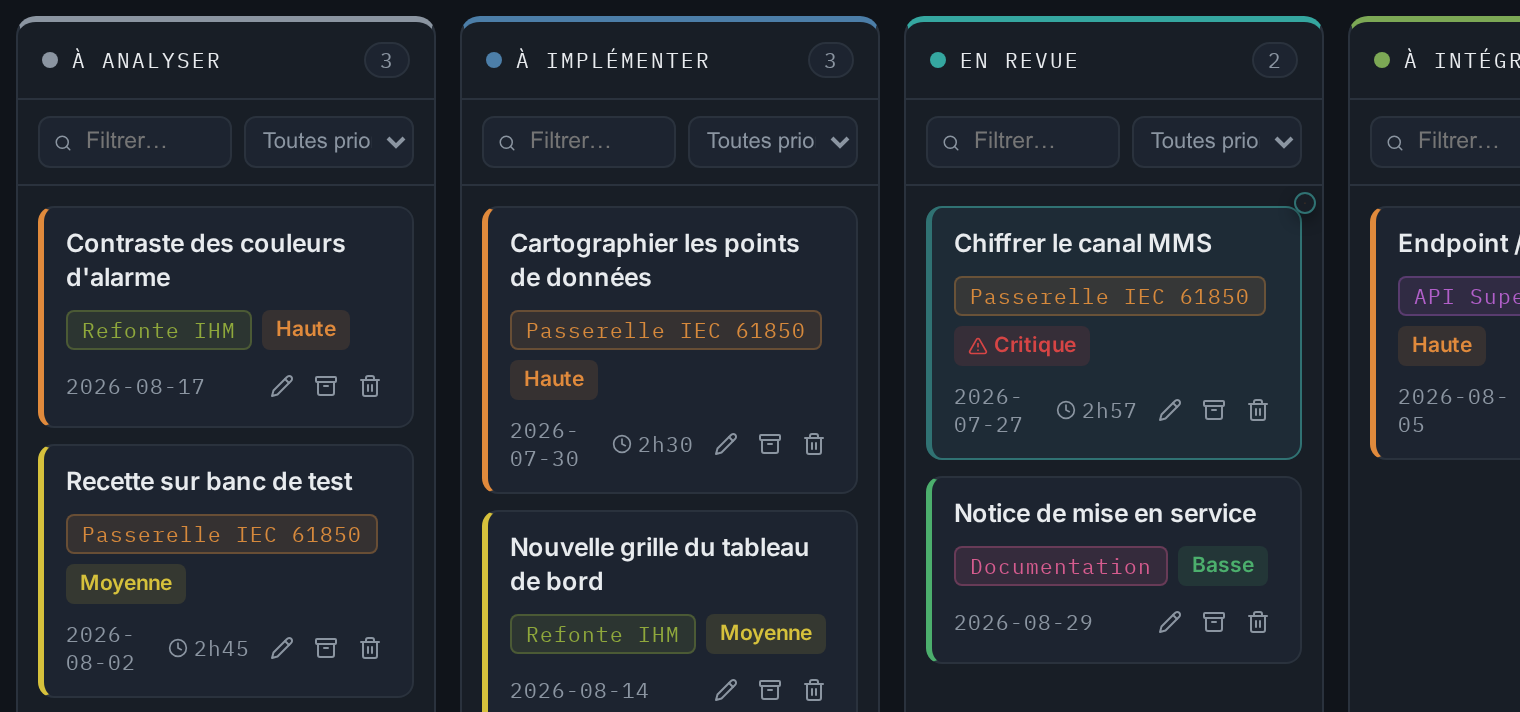
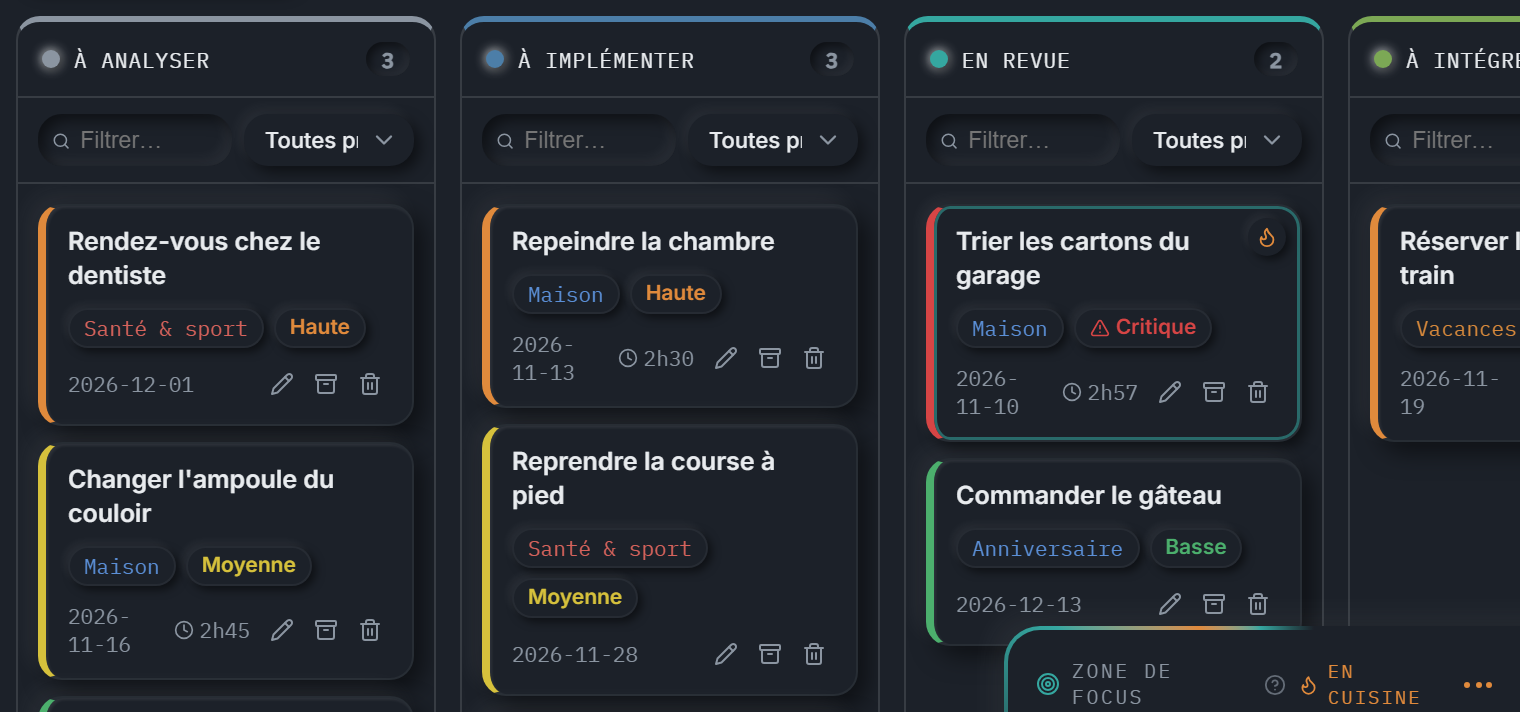
docs: update screenshots, tutorial guide, README, and release notes for v2.0.0

diff --git a/src/i18n/fr.ts b/src/i18n/fr.ts
@@ -463,6 +463,10 @@ export default {
     tuto_views_body: "Deux façons de voir tes post-its : la Liste, comme une liste de courses à cocher, ou le Kanban, un tableau en liège à colonnes. Sur le Kanban, fais glisser une tâche vers la colonne suivante quand elle avance.",
     tuto_focus_title: "La zone de focus",
     tuto_focus_body: "En bas à droite, la zone de focus est comme une plaque de cuisson : pose UNE tâche dessus et elle « cuit » — le temps passé est compté automatiquement jusqu'à ce que tu la retires ou la termines.",
+    tuto_island_title: "L'îlot dynamique & compagnon",
+    tuto_island_body: "En haut au centre, l'îlot dynamique affiche ton focus et un minuteur Pomodoro. Ouvre-le d'un clic pour gérer tes cycles de travail et interagir avec ton compagnon virtuel cybernétique (nourris-le, joue, et suis son évolution).",
+    tuto_plugins_title: "Extensions & plugins",
+    tuto_plugins_body: "Personnalise ton espace de travail grâce au système d'extensions (v2). Chaque plugin s'exécute dans une sandbox isolée (CSP stricte) et peut apporter de nouvelles vues (mindmap, suivi de charge) ou enrichir tes fiches de tâches.",
     tuto_time_title: "Le temps passé",
     tuto_time_body: "Chaque tâche a un petit chronomètre (l'icône horloge). Note le temps passé comme sur une feuille d'heures : « 1h30 », « 45m »… Pratique pour savoir où partent tes journées.",
     tuto_charts_title: "Les graphiques",
@@ -477,6 +481,8 @@ export default {
     tuto_tasks_alt: "Barre d'outils de recherche et de tri, suivie de deux lignes de tâches avec projet, priorité, statut et échéance.",
     tuto_views_alt: "Vue kanban : une colonne par statut, les tâches en cartes déplaçables d'une colonne à l'autre.",
     tuto_focus_alt: "Zone de focus en bas à droite avec une tâche en cours et le temps écoulé.",
+    tuto_island_alt: "Îlot dynamique ouvert avec minuteur Pomodoro et compagnon cybernétique pixel-art.",
+    tuto_plugins_alt: "Section des plugins avec la liste des extensions installées et leurs options.",
     tuto_time_alt: "Popover de pointage du temps ouvert sur une tâche, avec le total et la liste des entrées.",
     tuto_charts_alt: "Graphiques de synthèse : répartition par statut, avancement par projet, répartition par priorité.",
     tuto_themes_alt: "Mode post-it activé : les tâches sont des notes de papier, avec les boutons d'apparence (thème, punaise, célébrations) en haut à droite.",

diff --git a/src/i18n/en.ts b/src/i18n/en.ts
@@ -460,6 +460,10 @@ export default {
     tuto_views_body: "Two ways to see your sticky notes: the List, like a shopping list to tick off, or the Kanban, a cork board with columns. On the Kanban, drag a task to the next column as it moves forward.",
     tuto_focus_title: "The focus zone",
     tuto_focus_body: "At the bottom right, the focus zone is like a cooking stove: drop ONE task on it and it \"cooks\" — the time spent is tracked automatically until you remove it or finish it.",
+    tuto_island_title: "Dynamic Island & Companion",
+    tuto_island_body: "At the top center, the Dynamic Island shows your active focus and Pomodoro timer. Click to expand: run productivity sprints, switch between clock styles, and take care of your evolutive pixel-art cybernetic pet.",
+    tuto_plugins_title: "Plugins & Extensions",
+    tuto_plugins_body: "Extend your workspace with the v2 sandboxed plugin system. Plugins run safely with strict CSP, adding new views (mindmaps, workload tracking) and custom task panels or columns.",
     tuto_time_title: "Time spent",
     tuto_time_body: "Every task has a small stopwatch (the clock icon). Log the time you spend like on a timesheet: \"1h30\", \"45m\"… Handy to know where your days go.",
     tuto_charts_title: "Charts",
@@ -474,6 +478,8 @@ export default {
     tuto_tasks_alt: "Search and sort toolbar, followed by two task rows with project, priority, status and due date.",
     tuto_views_alt: "Kanban view: one column per status, tasks as cards you can drag from column to column.",
     tuto_focus_alt: "Focus zone at the bottom right with the current task and the elapsed time.",
+    tuto_island_alt: "Dynamic Island expanded showing the Pomodoro timer and cybernetic pixel-art pet.",
+    tuto_plugins_alt: "Plugins manager section displaying installed extensions and settings.",
     tuto_time_alt: "Time logging popover open on a task, with the total and the list of entries.",
     tuto_charts_alt: "Summary charts: breakdown by status, progress per project, breakdown by priority.",
     tuto_themes_alt: "Sticky-note mode on: tasks look like paper notes, with the appearance buttons (theme, pin, celebrations) at the top right.",

diff --git a/src/tips.jsx b/src/tips.jsx
@@ -2,7 +2,7 @@ import React, { useState, useEffect, useRef } from "react";
 import {
   HelpCircle, X, ChevronLeft, ChevronRight, Lightbulb,
   Sparkles, FolderPlus, ClipboardList, Columns3, Target, Clock,
-  BarChart3, Palette, Download,
+  BarChart3, Palette, Download, Bot, Puzzle,
 } from "lucide-react";
 import { useLang } from "./i18n.jsx";
 import { useOutsideClick } from "./hooks/useOutsideClick";
@@ -95,6 +95,8 @@ const TUTORIAL_STEPS = [
   { key: "tasks", icon: ClipboardList },
   { key: "views", icon: Columns3 },
   { key: "focus", icon: Target },
+  { key: "island", icon: Bot },
+  { key: "plugins", icon: Puzzle },
   { key: "time", icon: Clock },
   { key: "charts", icon: BarChart3 },
   { key: "themes", icon: Palette },

diff --git a/src/components/DynamicIsland/DynamicIsland.jsx b/src/components/DynamicIsland/DynamicIsland.jsx
@@ -4,7 +4,6 @@ import {
   Check,
   ChevronUp,
   Clock,
-  Coffee,
   Compass,
   Dna,
   ExternalLink,

diff --git a/RELEASE_NOTES.md b/RELEASE_NOTES.md
@@ -6,9 +6,23 @@
 
 ## Français
 
-### 2.0.0 — 2026-07-25
+### 2.0.0 — 2026-11-08
 
 **Nouveautés**
+- **Dynamic Island & Compagnon Cybernétique** :
+  - Îlot dynamique rétractable au centre de l'en-tête façon Apple, avec expansion fluide au clic
+  - Minuteur Pomodoro avec cycles configurables (focus / pause), carillons sonores distincts de transition et affichage Horloge rétro à volets (Flip Clock)
+  - Compagnon virtuel cybernétique en pixel-art avec ADN procédural unique et persistant, suivi télémétrique (énergie, lien affectif, humeurs) et actions interactives (nourrir, jouer, reposer, mutation ADN)
+  - Pastille de focus dynamique intégrée en direct et console télémétrique de debug
+- **Système de plugins extensible (v2)** :
+  - Architecture sandboxée avec fenêtres iframe isolées et politique de sécurité de contenu (CSP) stricte
+  - Spécification de manifeste v2 avec déclarations de permissions, réglages personnalisés, panneaux de tâches (`taskPanels`) et colonnes sur mesure (`taskColumns`)
+  - Gestionnaire de plugins intégré : découverte, activation/désactivation, inspection des permissions et rafraîchissement
+  - Outillage CLI développeur : commandes `npm run plugin:init` et `npm run plugin:validate`
+  - Deux plugins intégrés par défaut : Mindmap v2 et Suivi de charge de projet
+- **Guide de démarrage enrichi (v2)** :
+  - Nouvelles étapes illustrées dans le guide interactif couvrant l'îlot dynamique et les extensions
+  - Captures d'écran haute définition actualisées en français et en anglais
 - Archives : archiver / désarchiver une tâche (avec confirmation) et vue
   « Archivées » dédiée ; les tâches archivées sortent de l'avancement global,
   des graphiques et des célébrations
@@ -43,12 +57,12 @@
   accessible en écriture
 
 **Technique**
+- 292 tests unitaires automatisés (27 fichiers de tests, 100 % passants)
 - Build Docker : `npm run dist:docker` produit le `.exe` Windows et
   l'AppImage Linux sans installer wine localement
 - Conversion HTML → Markdown (turndown + GFM) pour le mode Formaté
 - Nouveaux modules purs et testés : `mdFormatting`, `richTextEditing`,
-  `htmlToMarkdown`, `images`
-- 150 tests unitaires (contre 74)
+  `htmlToMarkdown`, `images`, `plugins`, `petGenerator`
 
 ### 1.5.2 — 2026-07-20
 
@@ -153,9 +167,23 @@
 
 ## English
 
-### 2.0.0 — 2026-07-25
+### 2.0.0 — 2026-11-08
 
 **New**
+- **Dynamic Island & Cybernetic Virtual Pet**:
+  - Apple-style collapsible top Dynamic Island with smooth expanding spring physics
+  - Pomodoro timer featuring customizable sprint cycles (focus / rest), distinct phase completion chimes, and retro Flip Clock mode
+  - Cybernetic pixel-art companion with unique persistent procedural DNA, live telemetry indicators (energy, bond, mood), and interactive actions (feed, play, sleep, DNA mutation)
+  - Real-time focus task pill integration and debug telemetry console
+- **Extensible App-Tier Plugin System (v2)**:
+  - Sandboxed iframe architecture enforced with strict Content Security Policy (CSP)
+  - V2 plugin manifest specification supporting granular permissions, custom settings, contributed task panels, and custom task columns
+  - Built-in Plugin Manager interface: discover, toggle, inspect permissions, and configure plugins
+  - Developer CLI tooling: `npm run plugin:init` and `npm run plugin:validate`
+  - Bundled plugins: Mindmap v2 and Project Load Tracker
+- **Updated Getting-Started Guide (v2)**:
+  - Interactive walkthrough upgraded with new steps for the Dynamic Island, companion pet, and plugin ecosystem
+  - Fresh high-DPI screenshot assets for both French and English
 - Archives: archive / unarchive a task (with confirmation) and a dedicated
   "Archived" view; archived tasks are excluded from global progress, charts
   and celebrations
@@ -186,12 +214,12 @@
 - Logging: the in-memory buffer is bounded when no folder is writable
 
 **Technical**
+- 292 automated unit tests across 27 test suites with 100% passing rate
 - Docker build: `npm run dist:docker` produces the Windows `.exe` and the
   Linux AppImage without installing wine locally
 - HTML → Markdown conversion (turndown + GFM) for the Formatted mode
 - New pure, tested modules: `mdFormatting`, `richTextEditing`,
-  `htmlToMarkdown`, `images`
-- 150 unit tests (up from 74)
+  `htmlToMarkdown`, `images`, `plugins`, `petGenerator`
 
 ### 1.5.2 — 2026-07-20
 

diff --git a/README.md b/README.md
@@ -13,13 +13,17 @@ guide, see src/assets/tutorial/). Drop replacements in docs/screenshots/ with
 these exact names and they show up here automatically.
 -->
 
-| Dashboard | Task list | Charts |
+| Dashboard | Dynamic Island & Pet | Plugins Manager |
 |---|---|---|
-| ![Dashboard](docs/screenshots/dashboard.png) | ![Task list](docs/screenshots/tasks.png) | ![Charts](docs/screenshots/charts.png) |
+| ![Dashboard](docs/screenshots/dashboard.png) | ![Dynamic Island](docs/screenshots/dynamic-island.png) | ![Plugins](docs/screenshots/plugins.png) |
 
-| Kanban | Sticky-note mode |
-|---|---|
-| ![Kanban](docs/screenshots/kanban.png) | ![Sticky-note mode](docs/screenshots/sticky.png) |
+| Kanban | Task list | Charts |
+|---|---|---|
+| ![Kanban](docs/screenshots/kanban.png) | ![Task list](docs/screenshots/tasks.png) | ![Charts](docs/screenshots/charts.png) |
+
+| Sticky-note mode |
+|---|
+| ![Sticky-note mode](docs/screenshots/sticky.png) |
 
 ---
 
@@ -32,6 +36,8 @@ juste à côté de l'exécutable, ce qui la rend portable sur ta clé/SSD extern
 
 ### Fonctionnalités
 
+- **Dynamic Island & Compagnon Cybernétique** : îlot supérieur rétractable avec minuteur Pomodoro, horloge à volets (Flip Clock), compagnon virtuel pixel-art à ADN persistant (nourrir, jouer, dormir, évolution), pastille de tâche en focus et console de debug
+- **Système de plugins extensible (v2)** : exécution isolée avec CSP stricte, panneaux et colonnes de tâches contribués, vues déclaratives, gestionnaire de plugins intégré et CLI `trk-plugin` (`init`, `validate`)
 - Suivi de tâches par projet, avec priorités, échéances et statut
 - Vue liste (avec pagination) et vue kanban avec glisser-déposer entre colonnes
 - Archivage des tâches, avec vue « Archivées » dédiée (hors avancement et graphiques)
@@ -186,6 +192,8 @@ executable, which makes it portable on your USB key / external SSD.
 
 ### Features
 
+- **Dynamic Island & Cybernetic Pet**: top collapsible island with Pomodoro timer, retro flip clock, persistent DNA pixel-art companion (feed, play, sleep, evolve), active focus task pill, and debug telemetry
+- **Extensible Plugin System (v2)**: sandboxed iframe execution with strict CSP, contributed task panels & columns, declarative views, built-in plugins manager, and `trk-plugin` CLI (`init`, `validate`)
 - Task tracking per project, with priorities, due dates and status
 - List view (with pagination) and kanban view with drag & drop between columns
 - Task archiving, with a dedicated "Archived" view (excluded from progress and charts)
